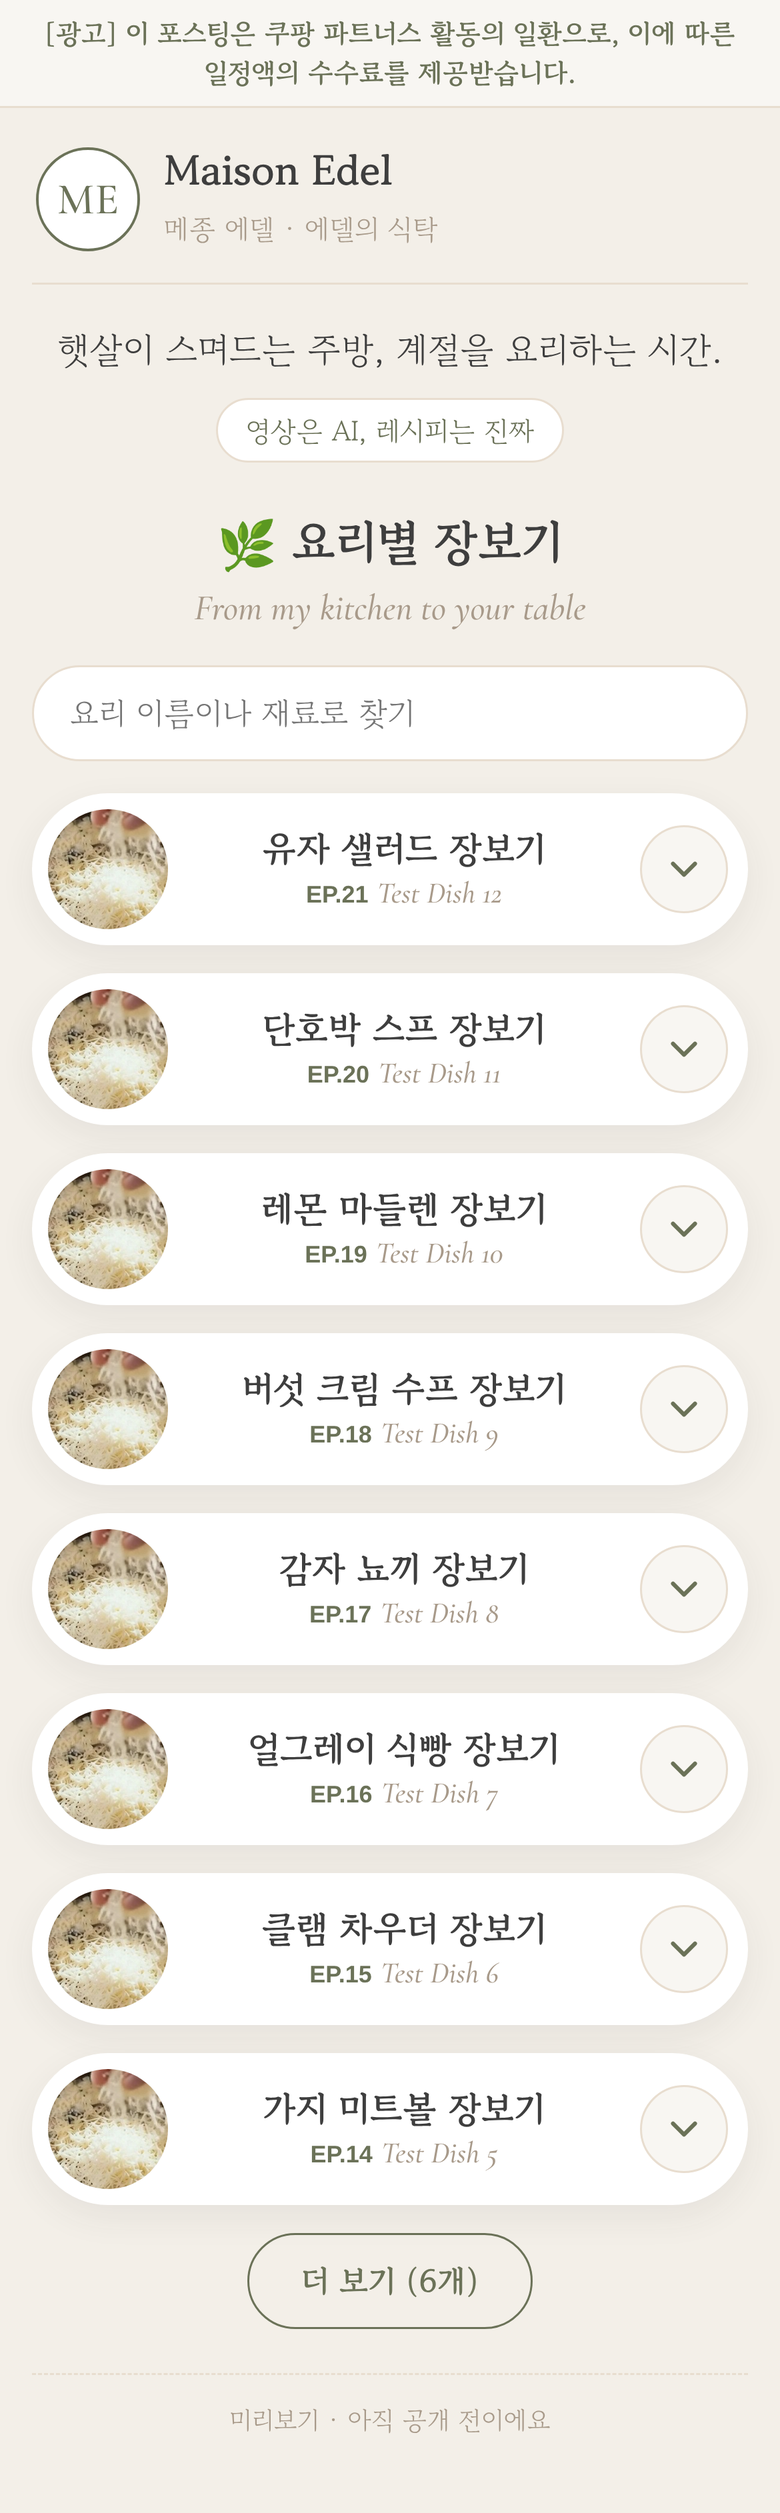
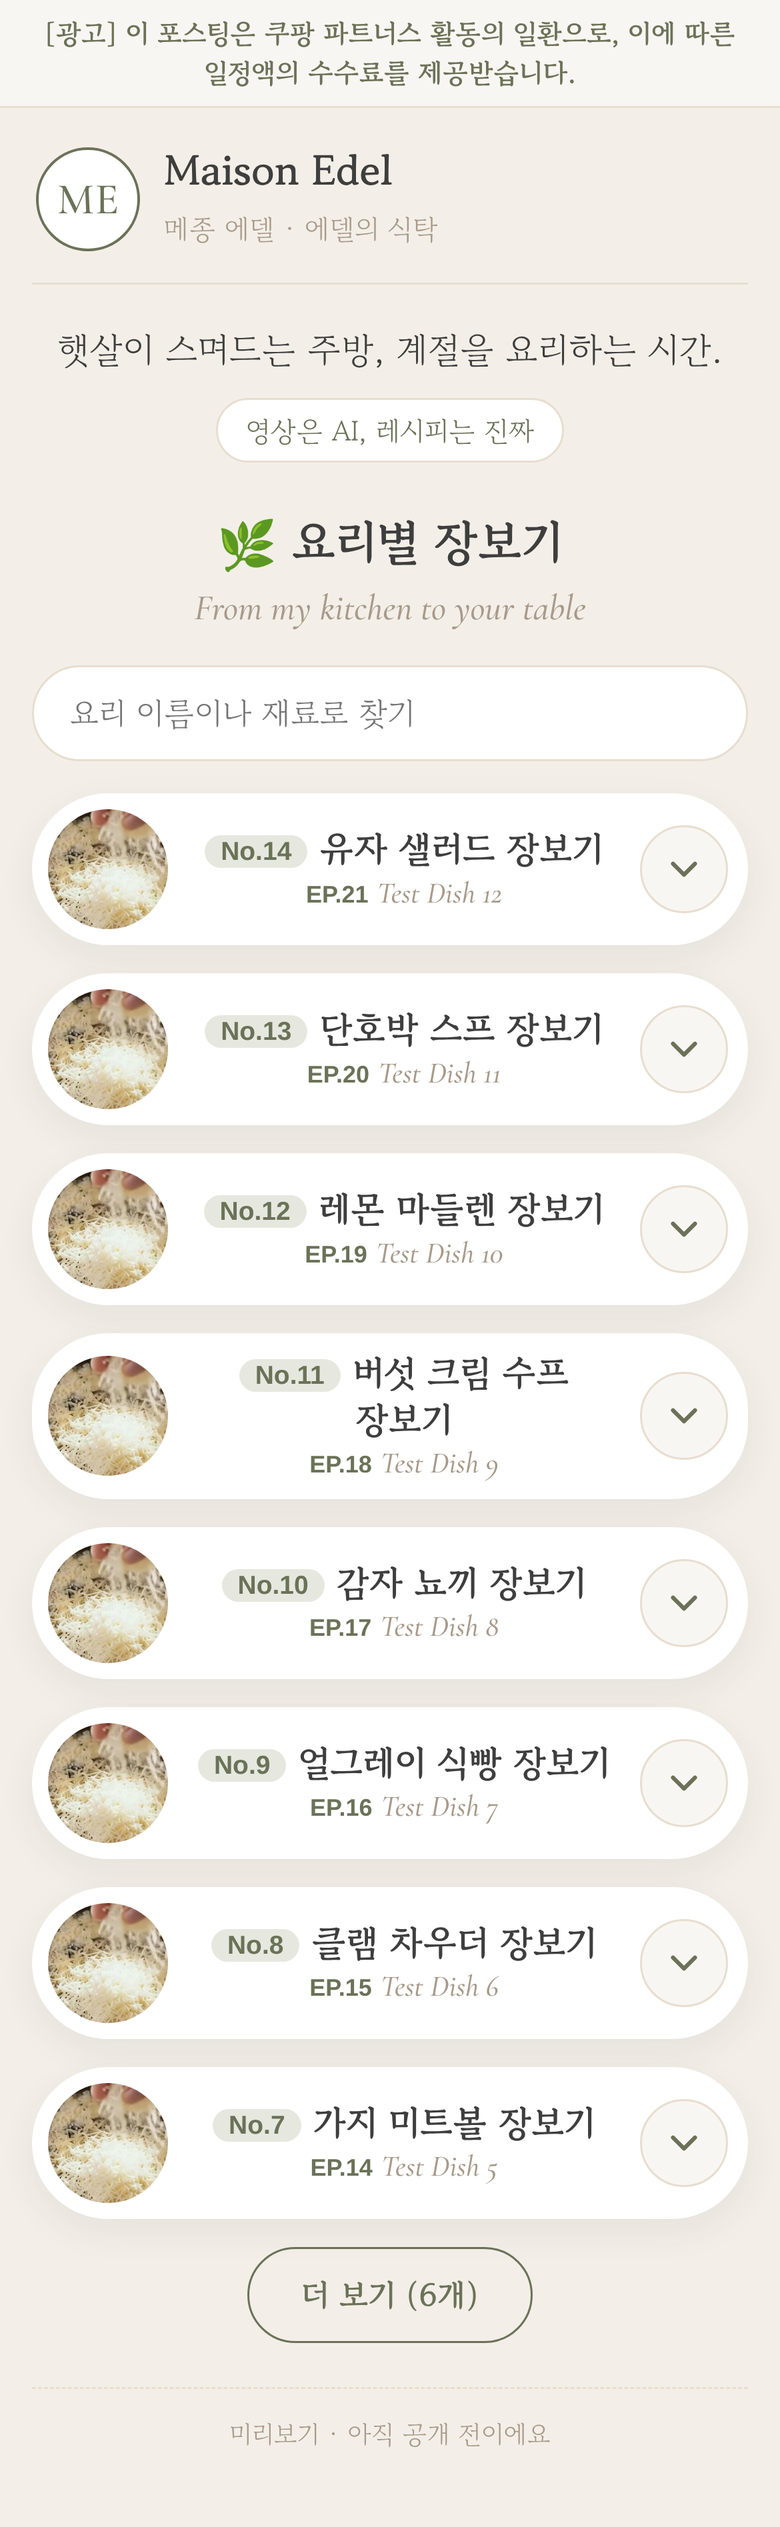
장보기 페이지·DM 답장틀 작업 중간 저장
Claude-Session: https://claude.ai/code/session_01Ethqw5r7mmktrKzGmpSNVy

diff --git a/company/초안/메종에델-장보기/index.html b/company/초안/메종에델-장보기/index.html
@@ -97,6 +97,11 @@
   .items-empty { margin: 0; text-align: center; font-size: 15px; color: var(--taupe); }
   .item .slot { font-size: 12px; font-weight: 400; color: var(--taupe); }
 
+  .dish .tt b .no { font-family: Arial, sans-serif; font-size: 13px; font-weight: 700; color: var(--olive);
+                    background: var(--olive-soft); border-radius: 999px; padding: 1px 8px; margin-right: 6px; vertical-align: 2px; }
+  .dish { scroll-margin-top: 80px; }
+  .dish.flash { animation: flash 1.8s ease-out 1; }
+  @keyframes flash { 0%, 60% { box-shadow: 0 0 0 3px var(--olive), 0 6px 18px rgba(62,62,62,.07); } 100% { box-shadow: 0 6px 18px rgba(62,62,62,.07); } }
   .search { margin-top: 14px; }
   .search input { width: 100%; min-height: 48px; padding: 0 18px; border-radius: 999px; border: 1px solid var(--beige);
                   background: var(--white); color: var(--charcoal); font: inherit; font-size: 16px; outline: none; }
@@ -169,7 +174,10 @@
       var det = el('details', 'card dish'), sum = el('summary');
       var th = el('span', 'thumb');
       if (d.사진) { var img = el('img'); img.src = d.사진; img.alt = d.요리; img.loading = 'lazy'; th.appendChild(img); }
-      var tt = el('span', 'tt'); tt.appendChild(el('b', null, d.요리 + ' 장보기'));
+      var tt = el('span', 'tt'), tb = el('b');
+      if (d.번호) tb.appendChild(el('span', 'no', 'No.' + d.번호));
+      tb.appendChild(document.createTextNode(d.요리 + ' 장보기')); tt.appendChild(tb);
+      if (d.번호) det.id = 'no-' + d.번호;
       var sub = el('span', 'sub'); if (d.EP) sub.appendChild(el('span', 'ep', d.EP)); if (d.영어) { sub.appendChild(document.createTextNode(' ')); sub.appendChild(el('span', 'en', d.영어)); }
       tt.appendChild(sub);
       var cv = el('span', 'chev'); cv.setAttribute('aria-hidden', 'true'); cv.innerHTML = chev;
@@ -192,13 +200,14 @@
       // 하나를 펼치면 다른 것은 접힌다
       det.addEventListener('toggle', function () { if (det.open) cards.forEach(function (c) { if (c.el !== det) c.el.open = false; }); });
       box.appendChild(det);
-      cards.push({ el: det, text: (d.요리 + ' ' + (d.영어 || '') + ' ' + mine.map(function (i) { return i.이름; }).join(' ')).toLowerCase() });
+      cards.push({ el: det, no: String(d.번호 || ''), text: (d.요리 + ' ' + (d.영어 || '') + ' ' + mine.map(function (i) { return i.이름; }).join(' ')).toLowerCase() });
     });
 
     function draw() {
       var word = (q.value || '').trim().toLowerCase(), n = 0, hits = 0;
+      var num = (word.match(/^(?:no\.?\s*|#)?(\d+)(?:번)?$/) || [])[1]; // "2", "No.2", "#2", "2번" → 번호로 찾기
       cards.forEach(function (c) {
-        var hit = !word || c.text.indexOf(word) !== -1;
+        var hit = !word || (num ? c.no === num : c.text.indexOf(word) !== -1);
         if (hit) hits++;
         var show = hit && (word || showAll || n < FIRST);
         if (hit && !word) n++;
@@ -213,6 +222,20 @@
     q.addEventListener('input', draw);
     more.addEventListener('click', function () { showAll = true; draw(); });
     draw();
+
+    // 주소 끝 #번호 (예: …/#2) → 그 요리를 펼치고 그 자리로 내려가 잠깐 올리브색 테두리로 반짝임. 없는 번호면 첫 화면 그대로
+    function openFromHash() {
+      var m = (location.hash || '').match(/^#(?:no-?)?(\d+)$/i); if (!m) return;
+      var c = cards.filter(function (x) { return x.no === m[1]; })[0]; if (!c) return;
+      if (c.el.hidden) { q.value = ''; showAll = true; draw(); }
+      c.el.open = true;
+      setTimeout(function () {
+        c.el.scrollIntoView({ behavior: 'smooth', block: 'center' });
+        c.el.classList.remove('flash'); void c.el.offsetWidth; c.el.classList.add('flash');
+      }, 60);
+    }
+    window.addEventListener('hashchange', openFromHash);
+    openFromHash();
   })();
 </script>
 </body>

diff --git a/company/초안/메종에델-장보기/장보기-재료.js b/company/초안/메종에델-장보기/장보기-재료.js
@@ -1,13 +1,14 @@
 // 메종에델 장보기 — 페이지가 요리와 재료를 읽는 단 한 곳
 // 원본은 회사 요리 목록 표와 재료 표 (주소는 이 파일에 적지 않음 — 이 파일은 공개 페이지와 같이 나감)
 // 규칙: 요리 블록은 MAISON_EDEL_DISHES 에서 만든다. 순서 숫자가 클수록 위(최신 요리가 맨 위).
+//       번호는 한 번 정하면 바꾸지 않는다. 새 요리는 다음 번호. 페이지 주소 + #번호 로 열면 그 요리가 펼쳐진다.
 //       쿠팡 링크가 비어 있거나 보이기가 꺼진 재료는 페이지에 보이지 않는다.
 //       재료의 "요리"는 요리 목록의 "요리" 이름과 똑같아야 한다.
 //       암웨이 제품은 넣지 않는다.
 // 마지막 반영: 2026-11-02 (재료 표 7개, 쿠팡 링크는 달걀 1개)
 window.MAISON_EDEL_DISHES = [
-  { 요리: "마약계란",         EP: "EP.03", 영어: "Soy Marinated Eggs",      사진: "사진/작은-마약계란.jpg", 소개: "달걀 10개와 간장·물·물엿 70ml씩이면 시작할 수 있어요.", 순서: 3 },
-  { 요리: "보리 버섯 리조또", EP: "EP.02", 영어: "Barley Mushroom Risotto", 사진: "사진/작은-리조또.jpg",   소개: "쌀 대신 보리로, 표고버섯 향이 깊은 리조또예요.",         순서: 2 }
+  { 번호: 2, 요리: "마약계란",         EP: "EP.03", 영어: "Soy Marinated Eggs",      사진: "사진/작은-마약계란.jpg", 소개: "달걀 10개와 간장·물·물엿 70ml씩이면 시작할 수 있어요.", 순서: 3 },
+  { 번호: 1, 요리: "보리 버섯 리조또", EP: "EP.02", 영어: "Barley Mushroom Risotto", 사진: "사진/작은-리조또.jpg",   소개: "쌀 대신 보리로, 표고버섯 향이 깊은 리조또예요.",         순서: 2 }
 ];
 
 window.MAISON_EDEL_SHOP = [

diff --git a/company/초안/메종에델-장보기/DM-답장틀.md b/company/초안/메종에델-장보기/DM-답장틀.md
@@ -1,0 +1,120 @@
+# 메종에델 "재료 링크" DM 답장 틀 (초안)
+
+- 작성: DM·댓글팀 · 2026-11-02 · 초안만 함 (DM 보내기·게시 안 함)
+- 회장님 아이디어: 요리마다 번호(예: No.2 마약계란) → 릴스 캡션에 "재료 필요하신 분은 DM" → DM이 오면 장보기 페이지의 그 요리 링크(페이지 주소 + #번호)를 보냄
+- 읽은 것: CLAUDE.md 자동 답장 규칙, `company/SNS운영.md` 5장, `company/규정집.md` 2·11·13, `company/답변집.md`, `company/초안/메종에델-쿠팡파트너스-계획.md` 2장, 노션 규칙 원문 사본(`company/초안/메종에델-기준장면/노션규칙-원문.md`), 이 폴더의 `index.html`·`장보기-재료.js`·`공개-방법.md`
+- 노션 "🌼 Maison Edel 작업실"은 이번에 직접 열지 못했어요(노션 연결 도구가 없음). 말투는 회사에 옮겨 둔 원문 사본(11/1)과 장보기 페이지 문구 기준이에요. 노션의 "댓글·DM 답장 규칙" 칸은 사본에 없어서, 보내기 전에 그 칸과 한 번 맞춰 봐야 해요.
+- 빈자리: `(장보기 링크)` = 페이지 주소 + `#번호` (주소는 공개 전이라 비워 둠), `(요리 이름)`, `(No.번호)`
+
+---
+
+## 1. 캡션 끝에 넣을 한 줄
+
+말투: 에델처럼 차분하고 따뜻하게. "꼭", "놓치지 마세요", "오늘만" 같은 말은 쓰지 않아요. "필요하시면"으로 시작해서, 필요 없는 분은 편하게 지나갈 수 있게 했어요.
+
+**1안 (추천) — DM 방식**
+> 재료가 필요하시면 DM으로 "No.3"만 보내 주세요. 모아 둔 장보기 목록을 보내 드릴게요 🌿
+
+- 번호만 보내면 돼서 쓰는 사람이 편하고, 회사도 어느 요리인지 헷갈리지 않아요.
+
+**2안 — DM 방식, 더 짧게**
+> 이 요리의 재료는 DM 주시면 조용히 챙겨 보내 드릴게요 🌿
+
+**3안 — 댓글 키워드 방식**
+> 댓글에 "재료"라고 남겨 주시면 No.3 장보기 목록을 DM으로 보내 드릴게요 🌿
+
+- 좋은 점: 댓글이 늘어서 게시글이 더 많이 보일 수 있어요.
+- 주의: 회장님을 팔로우하지 않는 분에게 보내는 DM은 그분의 "메시지 요청함"으로 가서 못 보실 수 있어요. 그리고 하루 DM 10건 한도가 있어서, 댓글이 많이 달리면 남은 분들은 다음 날로 넘어가요. → **처음에는 1안으로 시작하는 걸 추천해요.**
+
+**캡션에도 대가 표시가 필요한가 — DM·댓글팀 판단: 필요해요 (결정은 회장님)**
+- 근거(쿠팡 계획서 2-1): "장보기 링크를 말하는 게시글에만 캡션 첫 줄에 표시", 표시는 "쉽게 보이는 곳(제목·첫 부분)"에 두고 "더보기 뒤·댓글·별도 페이지"는 안 되며, 링크로 이어지게 하는 것도 추천·보증에 들어가요.
+- "재료 필요하신 분은 DM" 한 줄은 장보기(쿠팡 파트너스) 링크로 이어지게 하는 말이라, 이 게시글은 "장보기를 말하는 게시글"에 해당해요. 장보기 페이지의 표시는 "별도 페이지"라 캡션 표시를 대신하지 못해요.
+- 그래서 캡션 **첫 줄**(더보기 누르기 전)에 계획서 2-1 문구를 넣는 것을 추천해요(이 문구도 회장님 결재 대기 중):
+  > [광고] 쿠팡 파트너스 링크 안내 포함 — 프로필 '장보기' 링크로 사시면 수수료를 받아요.
+  - DM 방식이면 끝부분만 바꿔서: "[광고] 쿠팡 파트너스 링크 안내 포함 — DM으로 드리는 장보기 링크로 사시면 수수료를 받아요."
+- AI 표시는 지금처럼 그대로 둬요("영상은 AI, 레시피는 진짜" + 인스타 AI 정보 라벨).
+- 캡션 전체를 쓰는 일은 콘텐츠팀이 맡아요. 여기는 끝 한 줄만 만들었어요.
+
+---
+
+## 2. DM 답장 틀 (1개)
+
+> **회장님 결정 11/2: DM에는 대가 표시 안 씀, 페이지 맨 위 표시로 대신**
+
+**바로 복사용**
+```
+안녕하세요, 메종 에델이에요 🌿 (요리 이름) 재료를 여기 모아 두었어요.
+(장보기 링크)
+레시피는 게시글에 그대로 있으니, 집에 있는 재료로 만드셔도 충분해요.
+따뜻한 한 끼 되시길 바라요.
+```
+
+**왜 이렇게 썼나**
+- 첫 줄에서 바로 답해요(재료 모아 두었어요). 그다음 줄이 링크예요.
+- 대가 표시는 링크를 누르면 나오는 장보기 페이지 맨 위 문장("이 포스팅은 쿠팡 파트너스 활동의 일환으로…")과 요리 칸마다 있는 "쿠팡 파트너스 링크 · 수수료를 받아요"로 대신해요(회장님 결정).
+- "집에 있는 재료로 만드셔도 충분해요"는 안 사셔도 된다는 뜻이에요. 사라고 미는 말투가 되지 않게 하려고 넣었어요.
+
+**DM·댓글팀 의견 (결정은 그대로 따르고, 기록만 남김)**
+- 쿠팡 계획서 2-1에는 공정위 지침상 대가 표시를 "별도 페이지"에 두면 안 되고, 2024-12 개정부터 **링크하는 것도 추천·보증**에 들어간다고 적혀 있어요. 1:1로, 먼저 요청한 분에게 보내는 DM에도 이 기준이 똑같이 걸리는지는 회사가 확인하지 못했어요.
+- 그래서 DM에 표시를 안 쓰면 "링크 너머 페이지에만 표시"가 되어 지적받을 여지가 조금 있어요. 문제가 되면 DM 둘째 줄에 짧은 한 줄("쿠팡 파트너스 링크라 수수료를 받아요")만 넣으면 바로 고칠 수 있어요. 커머스팀이 공정위 안내서(2025-12 개정본)나 쿠팡 안내 화면으로 확인하면 좋겠어요.
+- 이모지는 하나(🌿)만 썼어요. 메종 에델 색(올리브)과 맞춰서요.
+
+**피할 말과 이유**
+| 피할 말 | 이유 |
+|---|---|
+| "꼭 사 보세요", "강력 추천", "오늘만", "품절 전에" | 권유하고 재촉하는 말투(규정집 2, 쿠팡 계획서 2-2) |
+| "영상 속 그 팬·그릇이에요" | 영상 속 도구는 장보기에 없어요. 같은 제품처럼 말하면 안 돼요(쿠팡 계획서 2-4) |
+| 브랜드 이름, 가격 | 노션 규칙은 브랜드를 말하지 않아요. 쿠팡 가격은 자주 바뀌어서 틀릴 수 있어요 |
+| 수입·보너스·직급·"스폰서" | 공개 글 금지어 |
+| 전화번호·주소·이름 묻기 | 개인정보는 묻지 않아요 |
+
+**이런 DM이 오면 이 틀을 쓰지 않아요**
+| 들어온 말 (예) | 분류 | 하는 일 |
+|---|---|---|
+| "No.3", "재료 알려 주세요", "장보기 링크 주세요" | 🟡 (지금) | 이 틀로 초안 → 회장님 ✅ |
+| "이 팬·칼·인덕션 어디 거예요?" | 🟡 | 도구 질문은 노션 답장표의 "도구·제품" 줄 그대로(브랜드 말하지 않음). 장보기 링크는 보내지 않아요 |
+| "얼마예요?", "공구 해요?", "협찬·제휴" | 🔴 | 답하지 않고 회장님께 |
+| 불만, 링크가 안 열린다는 항의, 환불 | 🔴 | 회장님께 |
+| 암웨이 이야기가 나오는 DM | 🔴 | 회장님께 (이 대화에서는 장보기와 섞지 않음) |
+| 회장님이 아는 분 | 🟡 | 자동으로 보내지 않고 회장님이 직접 |
+| 같은 분이 24시간 안에 또 요청 | — | 다시 보내지 않고 회장님께 모아 올림 |
+
+---
+
+## 3. 자동 답장 규칙에서 이 답장은 어디에 들어가나
+
+**한 줄 결론: 지금은 🟡(초안 → 회장님 ✅)이에요. 자동으로 보내는 목록에는 아직 없어요.**
+
+1. **지금 (메타 앱 검수·사업자 확인 전)**
+   - 재료 DM이 오면 → 회사가 이 틀로 초안을 만들고 `(장보기 링크)`·`(요리 이름)`을 채워서 → 노션 "답장 대기"에 올림 → 회장님 ✅ → 회장님이 직접 보냄.
+2. **자동 답장 목록에 들어가나?**
+   - 11/2에 승인된 자동 목록은 칭찬, "영상도 AI예요?", 공부 앱, 레시피(아는 분이 아닐 때만) 네 가지예요. 재료 링크 DM은 **쿠팡 파트너스 링크(돈이 걸린 링크)** 로 이어져서 "레시피"와 같은 틀로 보지 않았어요. 그래서 지금은 "애매한 것"으로 회장님께 모아 올려요.
+   - 나중에 자동으로 보내려면, 이 틀을 자동 목록에 넣는 것을 회장님이 따로 결재하셔야 해요.
+3. **검수 뒤 처음 2주**
+   - 자동 목록에 들어가도 처음 2주는 실제로 보내지 않아요. "보냈을 답장"으로 모아서, 회장님이 손으로 보낸 답장과 비교해요.
+   - 안전 한도는 그대로예요: 같은 분 24시간에 1번, 하루 DM 10건, 1시간에 새 댓글 30개가 넘으면 멈춤. 3안(댓글 키워드)을 쓰면 이 한도에 먼저 걸리기 쉬워요.
+4. **회장님이 손으로 보낼 때 (1줄)**
+   - 노션 "답장 대기"에서 링크까지 채워진 답장 칸을 길게 눌러 "복사" → 인스타 앱에서 그분 DM 창을 열고 길게 눌러 "붙여넣기" → 보내기.
+
+---
+
+## 4. 보내기 전에 정해야 할 것 (사장님께)
+
+1. **페이지에 아직 "#번호" 자리가 없어요.** 지금 `index.html`은 요리 칸에 번호(id)가 없어서, 주소 끝에 `#3`을 붙여도 그 요리로 가지 않고 펼쳐지지도 않아요. → 개발팀이 요리 칸마다 번호를 달고, `#번호`로 들어오면 그 칸이 열리게 고쳐야 해요(`장보기-재료.js`에 `번호` 칸 추가).
+2. **번호를 어떻게 매길지.** 회장님 예시는 "No.2 마약계란"인데, 지금 마약계란은 EP.03이에요. 번호가 두 가지면 보는 분도 회사도 헷갈려요. → **추천: No. 번호 = EP 번호(마약계란 = No.3).** 이 파일의 예시도 No.3으로 썼어요. 회장님 확인이 필요해요.
+3. **쿠팡 계획서 2-2와 다른 점.** 계획서에는 "DM으로 쿠팡 링크를 보내지 않는다, '프로필 장보기에 정리해 두었어요'까지만"이라고 적혀 있어요. 이번 틀은 ① 쿠팡 링크가 아니라 **우리 장보기 페이지 주소**를 보내고 ② **먼저 요청한 분에게만** 보내서, 계획서가 걱정한 "원하지 않는 사람에게 보내는 링크"는 아니에요. 다만 쿠팡 약관에 "메신저로 공유"를 막는 줄이 있는지는 아직 원문을 못 봤어요(공식 화면 접속 거부). → 커머스팀이 약관 캡처로 확인하기 전까지 쓸 **대신 쓸 문장**:
+   ```
+   안녕하세요, 메종 에델이에요 🌿 (요리 이름) 재료는 프로필의 '요리별 장보기'에 모아 두었어요.
+   레시피는 게시글에 그대로 있으니, 집에 있는 재료로 만드셔도 충분해요.
+   ```
+4. **장보기 페이지가 공개된 뒤에** 캡션 한 줄을 써요. 페이지가 열리기 전에 "DM 주세요"를 올리면 보내 드릴 링크가 없어요(결재함 41번).
+
+---
+
+## 회장님 확인 필요 (보내기 전 ✅)
+- [ ] 캡션 한 줄: 1안 / 2안 / 3안 중 하나 (추천 1안)
+- [ ] DM 답장 틀 문구 (대가 표시 없음 — 회장님 결정 11/2. 위 "DM·댓글팀 의견" 위험 한 줄 확인)
+- [ ] 캡션 첫 줄 대가 표시: 필요하다고 판단 (계획서 2-1) — 넣을지 회장님 결정
+- [ ] 번호 매기는 법: No. = EP 번호 (추천)
+- [ ] 캡션 첫 줄 [광고] 표시 문구 (쿠팡 계획서 2-1, 같이 결재)
+- [ ] 쿠팡 약관 확인 전에는 "대신 쓸 문장"(프로필 장보기 안내)으로 보낼지
